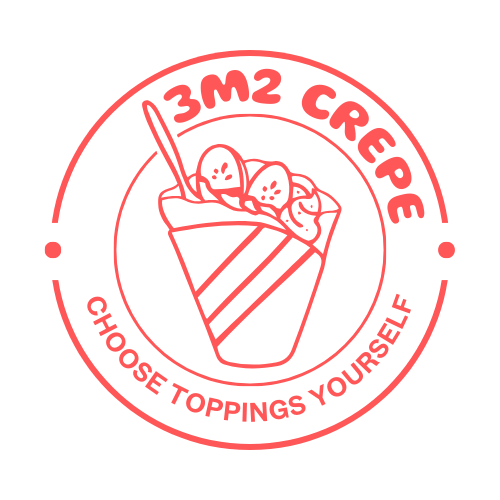
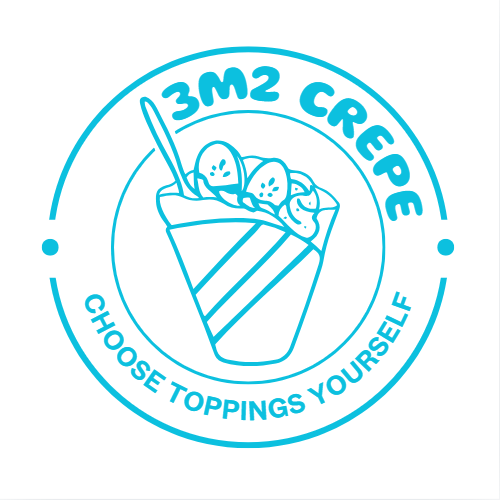
Add files via upload

Changed region(s): [[0.06, 0.09, 0.93, 0.9]]

diff --git a/home.html b/home.html
@@ -16,8 +16,8 @@
         }
     </style>
 </head>
-<body class="bg-gradient-to-br from-pink-100 to-red-100 min-h-screen">
-    <header class="bg-gradient-to-r from-red-500 to-pink-500 text-white py-6">
+<body class="bg-gradient-to-br from-cyan-100 to-blue-100 min-h-screen">
+    <header class="bg-gradient-to-r from-blue-500 to-cyan-500 text-white py-6">
         <div class="container mx-auto text-center">
             <img src="3M2サークルカット.png" alt="ロゴ" class="w-32 h-32 mx-auto rounded-full shadow-lg">
             <h1 class="text-4xl font-bold mt-4 font-serif">丸亀式クレープ</h1>
@@ -26,18 +26,18 @@
 
     <main class="container mx-auto px-4 py-8">
         <section class="bg-white rounded-lg shadow-lg p-8 mb-8">
-            <h2 class="text-3xl font-bold text-center text-red-600 mb-4">Welcome to 3M2!</h2>
+            <h2 class="text-3xl font-bold text-center text-blue-600 mb-4">Welcome to 3M2!</h2>
             <p class="text-center text-xl mb-4">
                 <div class="text-center">2024年 10/26(土) ▶ 10/27(日)</div>
                 <div class="text-center">1日目: 08:00 - 18:00</div>
                 <div class="text-center">2日目: 08:00 - 16:00</div>
             </p>
-            <div id="countdown" class="text-center text-xl font-bold text-red-500 pt-2 pd-2"></div>
+            <div id="countdown" class="text-center text-xl font-bold text-blue-500 pt-2 pd-2"></div>
         </section>
 
         <div class="grid md:grid-cols-2 gap-8">
             <section class="bg-white rounded-lg shadow-lg p-8">
-                <h2 class="text-2xl font-bold mb-4 text-red-600">丸亀式クレープとは？</h2>
+                <h2 class="text-2xl font-bold mb-4 text-blue-600">丸亀式クレープとは？</h2>
                 <p class="text-lg">
                     丸亀式クレープとは、うどんチェーンで有名な丸亀うどんが販売していた自分で具材を選ぶクレープです。
                     3M2では茨香祭限定で販売いたします！
@@ -45,7 +45,7 @@
             </section>
 
             <section class="bg-white rounded-lg shadow-lg p-8">
-                <h2 class="text-2xl font-bold mb-4 text-red-600">クレープのつくり方</h2>
+                <h2 class="text-2xl font-bold mb-4 text-blue-600">クレープのつくり方</h2>
                 <ol class="list-decimal list-inside text-lg">
                     <li class="mb-2">入口でクレープの生地を購入</li>
                     <li class="mb-2">ホイップクリームをかける</li>
@@ -55,15 +55,15 @@
             </section>
 
             <section class="bg-white rounded-lg shadow-lg p-8">
-                <h2 class="text-2xl font-bold mb-4 text-red-600">メニュー・料金</h2>
+                <h2 class="text-2xl font-bold mb-4 text-blue-600">メニュー・料金</h2>
                 <div class="grid grid-cols-2 gap-4">
                     <div>
                         <h3 class="text-xl font-semibold mb-2">丸亀式クレープ</h3>
-                        <p class="text-lg font-bold text-red-500">各500円</p>
+                        <p class="text-lg font-bold text-blue-500">各500円</p>
                     </div>
                     <div>
                         <h3 class="text-xl font-semibold mb-2">各種ドリンク</h3>
-                        <p class="text-lg font-bold text-red-500">各150円</p>
+                        <p class="text-lg font-bold text-blue-500">各150円</p>
                         <ul class="list-disc list-inside">
                             <div>・コーラ</div>
                             <div>・メロンソーダ</div>
@@ -76,17 +76,17 @@
             </section>
 
             <section class="bg-white rounded-lg shadow-lg p-8">
-                <h2 class="text-2xl font-bold mb-4 text-red-600">具材一覧</h2>
+                <h2 class="text-2xl font-bold mb-4 text-blue-600">具材一覧</h2>
                 <div class="relative">
                     <div id="ingredients-carousel" class="overflow-hidden">
                         <div id="ingredients-content" class="transition-all duration-300 ease-in-out flex">
                             <!-- Content will be dynamically inserted here -->
                         </div>
                     </div>
-                    <button id="prev-btn" class="absolute left-0 top-1/2 transform -translate-y-1/2 bg-red-500 text-white p-2 rounded-full">
+                    <button id="prev-btn" class="absolute left-0 top-1/2 transform -translate-y-1/2 bg-blue-500 text-white p-2 rounded-full">
                         <i data-lucide="chevron-left"></i>
                     </button>
-                    <button id="next-btn" class="absolute right-0 top-1/2 transform -translate-y-1/2 bg-red-500 text-white p-2 rounded-full">
+                    <button id="next-btn" class="absolute right-0 top-1/2 transform -translate-y-1/2 bg-blue-500 text-white p-2 rounded-full">
                         <i data-lucide="chevron-right"></i>
                     </button>
                 </div>
@@ -94,25 +94,25 @@
         </div>
 
         <section class="bg-white rounded-lg shadow-lg p-8 mt-8">
-            <h2 class="text-2xl font-bold mb-4 text-red-600">諸事項</h2>
+            <h2 class="text-2xl font-bold mb-4 text-blue-600">諸事項</h2>
             <div class="grid md:grid-cols-3 gap-4">
                 <div class="flex items-center">
-                    <i data-lucide="map-pin" class="text-red-500 mr-2"></i>
+                    <i data-lucide="map-pin" class="text-blue-500 mr-2"></i>
                     <p class="text-lg">茨城高専8号館1階102号室</p>
                 </div>
                 <div class="flex items-center">
-                    <i data-lucide="coffee" class="text-red-500 mr-2"></i>
+                    <i data-lucide="coffee" class="text-blue-500 mr-2"></i>
                     <p class="text-lg">10種類以上の具材をご用意！</p>
                 </div>
                 <div class="flex items-center">
-                    <i data-lucide="clock" class="text-red-500 mr-2"></i>
+                    <i data-lucide="clock" class="text-blue-500 mr-2"></i>
                     <p class="text-lg">開店直後が空いています！</p>
                 </div>
             </div>
         </section>
     </main>
 
-    <footer class="bg-gradient-to-r from-red-500 to-pink-500 text-white py-4 mt-8 pt-8 pb-8">
+    <footer class="bg-gradient-to-r from-blue-500 to-cyan-500 text-white py-4 mt-8 pt-8 pb-8">
         <div class="container mx-auto text-center">
             <p class="text-2xl font-mono">NITIC 3M2 丸亀式クレープ</p>
         </div>
